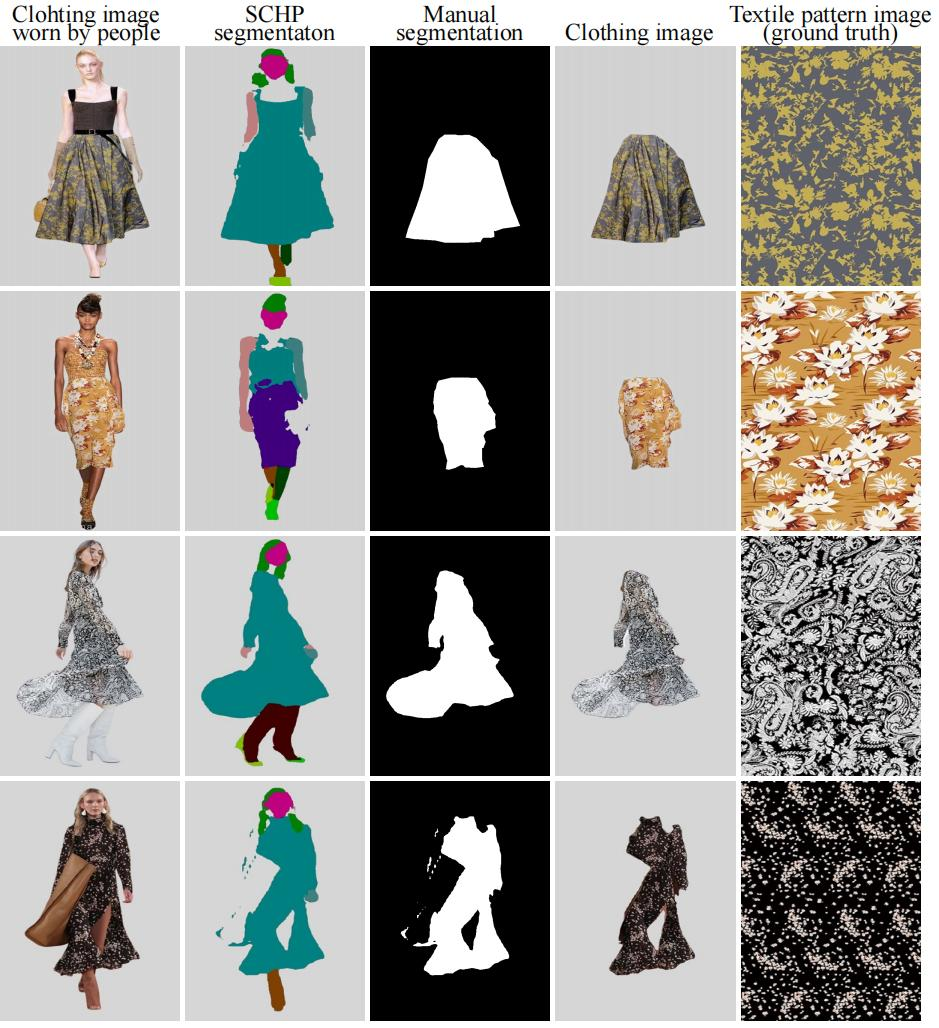
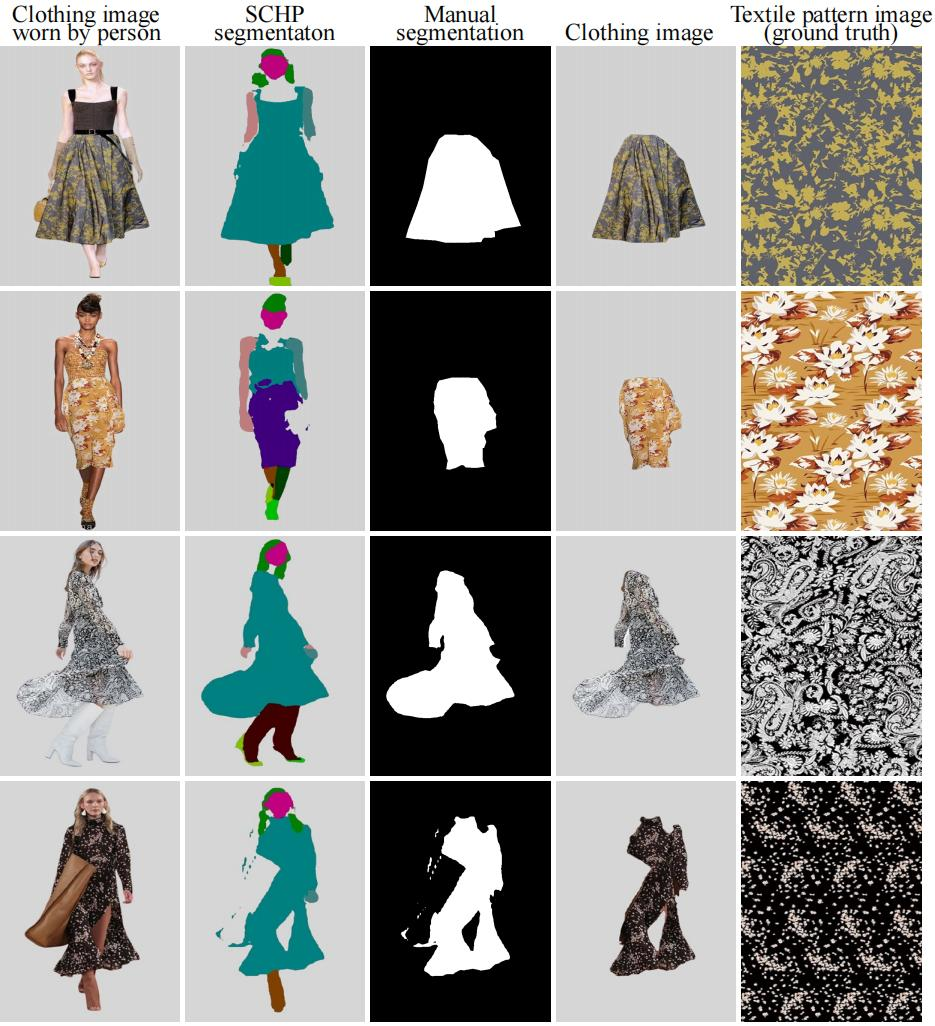
readme

diff --git a/test.py b/test.py
@@ -211,7 +211,7 @@ def main():
     parser.add_argument(
         "--scale",
         type=float,
-        default=1,
+        default=7.5,
         help="unconditional guidance scale: eps = eps(x, empty) + scale * (eps(x, cond) - eps(x, empty))",
     )
     parser.add_argument(

diff --git a/README.md b/README.md
@@ -75,16 +75,19 @@ For the downloaded data, we recommend storing it in three hierarchical directori
 ```python
 data
 |-- cloth
+|   |-- A0000.png
 |   |-- A0001.png
 |   |-- A0002.png
 |   |-- A0003.png
 |   |-- ...
 |-- cloth_mask
+|   |-- A0000.png
 |   |-- A0001.png
 |   |-- A0002.png
 |   |-- A0003.png
 |   |-- ...
 |-- pattern
+|   |-- A0000.png
 |   |-- A0001.png
 |   |-- A0002.png
 |   |-- A0003.png
@@ -113,7 +116,7 @@ CUDA_VISIBLE_DEVICES=<set usable cuda index, such as 0,1> python main_sd.py \
   --learning-rate 1e-4 \
   --final-lr 1e-6 \
   --fix-pred-lr \
-  --batch-size 32 \
+  --batch-size 16 \
   --accumulate_steps 8 \
   <add your dataroot_path, such as /home/name/ctp_hd_data>
 ```
